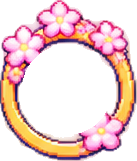
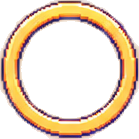
[Hình] Bớt hoa, khung mảnh: bảng, nút tròn, chiêu, bản đồ, ô chat, đăng nhập; đầu bảng và tab mỏng; chơi tiếp đúng tỉ lệ, sắc nét, chữ đậm; bỏ Chơi thử, Chơi lại từ đầu; mặt chân dung lấy đúng hình đang vẽ
Claude-Session: https://claude.ai/code/session_01BVnJmsGG4jWdJUy17v59Cp

diff --git a/style-ui-hoa-dao.css b/style-ui-hoa-dao.css
@@ -9,13 +9,18 @@ body #hud .bars .bar, body #hud .bars .bar::before, body #hud .bars .bar i, body
 body #loading .ld-box, #uk-ava i, body #btn-atk::after, body #btn-s0::after, body #btn-s1::after, body #btn-s2::after, body #btn-pill::after, body #btn-art::after, body #btn-dash::after { image-rendering: auto !important; }
 
 /* ---- bảng chức năng, túi đồ: khung mái ngói hoa đào, hai đèn lồng, lòng tím (thu 0,3) ---- */
-body #bag, body .panel { border-style: solid !important; border-color: transparent !important; border-width: 66px 18px 13px !important;
-  border-image: url("assets/art/ui-hd-bang.png") 220 60 44 fill / 66px 18px 13px / 0 stretch !important; background-color: transparent !important; }
+body #bag, body .panel { border-style: solid !important; border-color: transparent !important; border-width: 16px !important;
+  border-image: url("assets/art/ui-hd-bang2.png") 46 fill / 16px / 0 stretch !important; background-color: transparent !important; }   /* khung vàng mảnh góc hoa văn, không hoa (chủ dự án 04/11/2026 11:01) */
 body #bag > .bag-head, body .panel > .bag-head { min-height: 30px; align-items: center; }
-body .bag-head > b { border-width: 7px 16px !important; border-image: url("assets/art/ui-hd-ten.png") 18 40 fill / 7px 16px / 0 stretch !important; padding: 1px 6px 2px; font-size: 15px !important; }
+body .bag-head > b { border-width: 4px 10px !important; border-image: url("assets/art/ui-hd-ten.png") 18 40 fill / 4px 10px / 0 stretch !important; padding: 0 4px; font-size: 13px !important; line-height: 18px; }
+/* đầu bảng, tab mỏng (chủ dự án 04/11/2026 11:03: tên bảng, tab chiếm quá nhiều chỗ) */
+body #bag > .bag-head, body .panel > .bag-head { min-height: 0 !important; padding: 0 0 2px !important; margin: 0 !important; gap: 4px; }
+body .bag-head > .lantern, body .bag-head > img, body .bag-head > i.den { display: none; }
+body .bag-tabs, body .world-tabs { gap: 3px !important; margin: 2px 0 !important; }
 body .bag-head > button[id$="-close"], body .bag-head > .close-x, body .ib-panel .bag-head > button:last-child {
-  width: 30px !important; height: 28px !important; background-image: url("assets/art/ui-hd-i-dong.png") !important; }
-body .bag-tabs button, body .world-tabs button { border-width: 6px 10px !important; border-image: url("assets/art/ui-hd-tab.png") 14 22 fill / 6px 10px / 0 stretch !important; }
+  width: 24px !important; height: 22px !important; background-image: url("assets/art/ui-hd-i-dong.png") !important; }
+body .bag-tabs button, body .world-tabs button { border-width: 3px 7px !important; border-image: url("assets/art/ui-hd-tab.png") 14 22 fill / 3px 7px / 0 stretch !important;
+  padding: 1px 4px !important; font-size: 12px !important; min-height: 0 !important; height: auto !important; line-height: 16px !important; }
 body .bag-tabs button.on, body .world-tabs button.on { border-image-source: url("assets/art/ui-hd-tab-on.png") !important; }
 
 /* ---- cột mục bên trái: cuộn giấy (thu 0,5), ô tím / ô vàng đang chọn ---- */
@@ -41,12 +46,11 @@ body #hud .bars .bar.qi i { border-image-source: url("assets/art/ui-hd-bar-lam.p
 body #hud .bars .bar span { z-index: 2; line-height: 16px; }
 
 /* ---- nút tròn trên màn hình: vòng hoa đào lòng tím; vòng chiêu, Lướt, nút Đánh ---- */
-body #hud .hud-btns > button.tron { background-image: url("assets/art/ui-hd-vong-hoa.png") !important; }
+body #hud .hud-btns > button.tron { background-image: url("assets/art/ui-hd-vong-mong.png") !important; }   /* vòng vàng mảnh lòng tím, không hoa */
 body #hud .hud-btns > button.tron[data-tron2] { background: none !important; }
-body #btn-s0::after, body #btn-s1::after, body #btn-s2::after, body #btn-pill::after, body #btn-art::after { background-image: url("assets/art/ui-hd-ring.png") !important; }
+body #btn-s0::after, body #btn-s1::after, body #btn-s2::after, body #btn-pill::after, body #btn-art::after { background-image: url("assets/art/ui-hd-ring-vang.png") !important; }
 body #btn-dash::after { background-image: url("assets/art/ui-hd-ring-lam.png") !important; }
-body #btn-atk::after, body[data-le] #btn-atk::after { background-image: url("assets/art/ui-hd-atk.png") !important; }
-body #btn-atk b { opacity: 0; }
+/* nút Đánh: song kiếm không hoa (bộ GPT hai), chữ Đánh của game */
 body #btn-auto.auto-dock { border-width: 9px 14px !important; border-image: url("assets/art/ui-hd-tim-nho.png") 18 30 fill / 9px 14px / 0 stretch !important; }
 
 /* nút trên màn chưa gắn lớp .tron (lúc vừa vào game) thì giấu, không thoáng thấy bố cục nút chữ cũ (chủ dự án 04/11/2026 10:31) */
@@ -59,7 +63,7 @@ body #btn-auto.auto-dock, body #hud .hud-btns > button { box-shadow: none !impor
 #mini-map b { border: 6px solid transparent; border-width: 5px 12px; border-image: url("assets/art/ui-hd-ten.png") 18 40 fill / 5px 12px / 0 stretch; background: none; bottom: -16px; padding: 0 2px; }
 body #goal { border: solid transparent !important; border-width: 7px 16px !important; border-image: url("assets/art/ui-hd-viec.png") 16 40 fill / 7px 16px / 0 stretch !important;
   background: none !important; border-radius: 0 !important; box-shadow: none !important; padding: 2px 4px !important; color: #fff1c8; top: calc(env(safe-area-inset-top) + 140px) !important; }
-body .chat-dock { border: solid transparent !important; border-width: 10px 16px !important; border-image: url("assets/art/ui-hd-chat.png") 24 40 fill / 10px 16px / 0 stretch !important; background: none !important; border-radius: 0 !important; padding: 0 2px !important; }
+body .chat-dock { border: solid transparent !important; border-width: 10px 16px !important; border-image: url("assets/art/ui-hd-chat2.png") 16 24 fill / 6px 9px / 0 stretch !important; border-width: 6px 9px !important; background: none !important; border-radius: 0 !important; padding: 0 2px !important; }
 body .chat-dock .cd-input { border-width: 5px 8px !important; border-right-width: 8px !important; border-image: url("assets/art/ui-hd-nhap.png") 12 16 fill / 5px 8px / 0 stretch !important; }
 #hop-thu { border-width: 14px 12px !important; border-image: url("assets/art/ui-hd-hop.png") 36 30 fill / 14px 12px / 0 stretch !important; }
 .uk-tog#uk-gon { border: none !important; border-image: none !important; background: url("assets/art/ui-hd-i-lui.png") center / contain no-repeat !important; }
@@ -84,11 +88,23 @@ body #bag [data-o]:not([data-o="pham"]) .ico { border-width: 5px; border-image: 
 /* ---- màn đăng nhập, chơi tiếp, màn tải ---- */
 /* đăng nhập: khung hoa đào đèn đá (dn-khung); chơi tiếp: khung chùa mây đèn lồng (dn-tiep) — ảnh 5, chủ dự án 04/11/2026 10:46.
    Khung lòng trống: ảnh phủ cả hộp, lớp tím mờ lót bên trong cho chữ dễ đọc */
-body #menu #login-form, body #menu #logged { border: none !important; border-image: none !important; min-width: 270px;
-  background: url("assets/art/ui-hd-dn-khung.png") center / 100% 100% no-repeat, linear-gradient(rgba(34, 20, 58, .86), rgba(34, 20, 58, .86)) center / calc(100% - 26px) calc(100% - 60px) no-repeat !important;
-  padding: 62px 34px 136px !important; }
-body #menu #logged { background-image: url("assets/art/ui-hd-dn-tiep.png"), linear-gradient(rgba(34, 20, 58, .86), rgba(34, 20, 58, .86)) !important;
-  background-size: 100% 100%, calc(100% - 64px) calc(100% - 190px) !important; padding: 136px 52px 92px !important; }
+body #menu #login-form, body #menu #logged { min-width: 270px;
+  border: 16px solid transparent !important; border-image: url("assets/art/ui-hd-khung.png") 46 fill / 16px / 0 stretch !important; background: none !important;
+  padding: 10px 14px !important; }   /* khung vàng mảnh, không hoa, 9 mảnh (không kéo dãn hình) */
+/* chơi tiếp (chủ dự án 04/11/2026 10:58: nhà mờ, mây kéo béo): khung giữ đúng tỉ lệ ảnh (không kéo), phóng kiểu điểm ảnh cho sắc;
+   tên đạo hữu dưới mái chùa, nút Chơi tiếp, ba liên kết một hàng nhỏ để vừa lòng khung */
+body #menu #logged { border: none !important; border-image: none !important; background-color: transparent !important; width: min(94vw, 380px); max-width: none; aspect-ratio: 405 / 283; box-sizing: border-box; min-width: 0 !important; display: flex; flex-flow: row wrap; align-content: center; justify-content: center; gap: 4px 0;
+  background-image: url("assets/art/ui-hd-dn-tiep.png"), linear-gradient(rgba(34, 20, 58, .9), rgba(34, 20, 58, .9)) !important;
+  background-size: 100% 100%, 64% 46% !important; background-position: center, 50% 64% !important; padding: 30% 17% 15% !important; image-rendering: pixelated !important; }
+body #menu #logged .hello { flex: 0 0 100%; text-align: center; margin: 0; font-size: 15px; color: #ffe6a0; text-shadow: 1px 0 #1a0a20, -1px 0 #1a0a20, 0 1px #1a0a20, 0 -1px #1a0a20, 0 0 6px #000; }
+body #menu #logged .hello b { color: #fff; }
+body #menu #logged #play-buttons { flex: 0 0 100%; margin: 0 0 2px; }
+body #menu #logged #play-buttons .menu-btn { width: 100%; min-width: 0; margin: 0; }
+body #menu #logged .link-btn { display: inline; margin: 0 3px; padding: 0; font-size: 10.5px; text-shadow: 1px 1px 0 #000; }
+body #menu #logged > .link-btn { flex: none; }
+body #menu [hidden] { display: none !important; }
+/* chữ nút đậm hơn (chủ dự án: chữ Chơi tiếp quá mỏng) */
+body #menu .menu-btn { font-size: 17px !important; text-shadow: .6px 0 currentColor, -.6px 0 currentColor, 0 1px 0 rgba(255, 236, 190, .55) !important; }
 body #menu .menu-btn, body[data-le] #menu .menu-btn { border-width: 10px 18px !important; border-image: url("assets/art/ui-hd-dn-vang.png") 22 40 fill / 10px 18px / 0 stretch !important; color: #3a1206 !important; }
 body #menu .menu-btn.alt, body[data-le] #menu .menu-btn.alt { border-width: 10px 18px !important; border-image: url("assets/art/ui-hd-dn-tim.png") 22 40 fill / 10px 18px / 0 stretch !important; color: #fff1c8 !important; }
 body #menu input { border: solid transparent !important; border-width: 8px 10px !important; border-image: url("assets/art/ui-hd-dn-o.png") 16 20 fill / 8px 10px / 0 stretch !important;

diff --git a/src/ui/hud-ava.js b/src/ui/hud-ava.js
@@ -2,7 +2,7 @@
 // cắt phần đầu vai), viền theo Linh căn (mộc: hoa sen, hỏa: lửa, thủy: sóng, kim / thổ: vàng hoa), ô cấp ghi tầng tu tổng
 // (cảnh giới × 9 + tầng). Chạm chân dung mở bảng nhân vật như chạm tên cảnh giới. Kiểu ở style-ui-kit2.css.
 import { spriteImage } from '../render/sprites.js';
-import { outfitSprite } from '../render/draw-hero.js';
+import { heroLook } from '../render/draw-hero.js';
 import { every } from '../core/ticker.js';   // trang ẩn thì bỏ lượt
 
 // Khung bộ hoa đào (chủ dự án 04/11/2026 10:19, tools/art/ui_hoa_dao.py): mộc hoa đào, kim vàng kim cương, thủy sóng, hỏa lửa, thổ mây vàng.
@@ -22,7 +22,7 @@ export function createHudAva(game) {
     if (!bars || !s) return;
     if (box.parentElement !== bars) bars.prepend(box);
     box.hidden = false;
-    const H = game.data.heroes, look = H.list[s.look] ? s.look : H.default, id = outfitSprite(game, look), spr = game.data.art.sprites[id];
+    const id = heroLook(game).sprite, spr = game.data.art.sprites[id];   // đúng hình đang vẽ ngoài màn (bộ thời trang chưa có hình chibi thì hình gốc; trước lấy tên chibi không có hình nên mặt trống)
     const fk = ELS.includes(s.element) ? s.element : 'moc', L = `Lv.${(s.realm || 0) * 9 + (s.layer || 1)}`, im0 = spr && spriteImage(spr), k = [id, fk, L, !!(im0 && im0.complete && im0.naturalWidth)].join('|');
     if (k === key) return;
     key = k; lv.textContent = L;
@@ -33,10 +33,17 @@ export function createHudAva(game) {
     const im = spr && spriteImage(spr), c = cv.getContext('2d');
     c.clearRect(0, 0, 40, 40); c.fillStyle = '#2a1838'; c.fillRect(0, 0, 40, 40);
     if (!im) return;
-    // khung đứng (khung 0), cắt vuông quanh đầu: bề ngang 30 điểm quanh tâm hình, từ đỉnh đầu xuống
-    const top = spr.anchor[1] - 42, cx = spr.anchor[0], S = 30;
+    // khung đứng (khung 0): tìm đỉnh đầu theo điểm không trong suốt, cắt vuông quanh đầu (cỡ theo bề ngang hình nhân vật)
+    const t = document.createElement('canvas'); t.width = spr.w; t.height = spr.h;
+    const tc = t.getContext('2d'); tc.drawImage(im, 0, 0, spr.w, spr.h, 0, 0, spr.w, spr.h);
+    const a = tc.getImageData(0, 0, spr.w, spr.h).data;
+    let y0 = -1, x0 = spr.w, x1 = 0;
+    for (let y = 0; y < spr.h && y0 < 0; y++) for (let x = 0; x < spr.w; x++) if (a[(y * spr.w + x) * 4 + 3] > 40) { y0 = y; break; }
+    for (let y = Math.max(0, y0); y < spr.h; y++) for (let x = 0; x < spr.w; x++) if (a[(y * spr.w + x) * 4 + 3] > 40) { if (x < x0) x0 = x; if (x > x1) x1 = x; }
+    if (y0 < 0) return;
+    const S = Math.max(12, Math.round((x1 - x0 + 1) * 0.8)), cx = (x0 + x1 + 1) / 2;
     c.imageSmoothingEnabled = false;
-    c.drawImage(im, cx - S / 2, Math.max(0, top), S, S, 0, 2, 40, 40);
+    c.drawImage(im, Math.round(cx - S / 2), Math.max(0, y0 - 2), S, S, 0, 2, 40, 40);
   }
   paint(); every(paint, 3000);
 }

diff --git a/src/ui/login.js b/src/ui/login.js
@@ -24,7 +24,11 @@ export function createLogin(onPlay0) {
     if (session) $('logged-name').textContent = auth.displayName(session);
     const has = !!loadSave(session ? session.user.id : 'guest');
     $('menu-continue').hidden = !has;
-    $('menu-new').textContent = has ? 'Chơi lại từ đầu' : 'Bắt đầu';
+    // chủ dự án 04/11/2026 10:58: bỏ "Chơi lại từ đầu" (đã có bản lưu thì chỉ còn Chơi tiếp) và bỏ "Chơi thử không cần tài khoản";
+    // nút chơi thử chỉ còn cho máy kiểm tra tự động (địa chỉ có ?thu=1: tools/playtest.mjs, choi-doc.mjs, cay-thu.mjs)
+    $('menu-new').hidden = has;
+    $('menu-new').textContent = 'Bắt đầu';
+    $('btn-guest').hidden = !new URLSearchParams(location.search).has('thu');
     $('play-buttons').hidden = !session;
   }
 

diff --git a/tools/art/ui_hoa_dao.py b/tools/art/ui_hoa_dao.py
@@ -76,13 +76,14 @@ B3 = {
     'bar-do': (261, 734, 471, 773), 'bar-lam': (261, 784, 472, 823), 'bar-rong': (260, 835, 473, 873),
     'thong-bao': (397, 900, 997, 1008),
     'i-lui': (17, 458, 80, 517), 'i-toi': (17, 527, 80, 585), 'i-dong': (18, 595, 80, 652), 'i-ok': (17, 661, 80, 720),
+    'vong-mong': (1307, 727, 1390, 803), 'bang2': (409, 51, 742, 344),
     'i-cai-dat': (23, 729, 78, 783), 'i-hoi': (24, 790, 77, 841), 'i-than': (24, 848, 77, 899), 'i-tin': (24, 907, 77, 961),
 }
 B4 = {
     'khung': (15, 43, 362, 435), 'mai': (382, 12, 778, 290), 'trang2': (794, 23, 1152, 288), 'hop': (384, 289, 707, 437),
     'may': (727, 316, 1128, 431), 'o-nhap': (1151, 380, 1415, 434), 'vang': (15, 462, 360, 534), 'tim': (381, 461, 691, 531),
     'vang-nho': (912, 453, 1127, 512), 'tim-nho': (712, 453, 891, 527), 'tab': (913, 591, 1056, 634), 'tab-on': (1073, 589, 1215, 631),
-    'o': (384, 544, 692, 610), 'chon': (15, 638, 347, 725), 'chat': (243, 745, 602, 852), 'nhap': (1151, 515, 1415, 568),
+    'chat2': (624, 764, 1048, 845), 'o': (384, 544, 692, 610), 'chon': (15, 638, 347, 725), 'chat': (243, 745, 602, 852), 'nhap': (1151, 515, 1415, 568),
 }
 
 B5 = {   # ảnh 5 (chủ dự án 04/11/2026 10:46): nền khung đăng nhập, chơi tiếp, nút
@@ -111,7 +112,8 @@ def build(save):
         MANIFEST['ui.hd-ava-' + k]['hole'] = holes[k]   # [tâm x / rộng, tâm y / cao, bán kính / rộng, cao / rộng] cho src/ui/hud-ava.js
     put('ui.hd-vong-hoa', _cut(a2, B2['vong-hoa']), 'vòng hoa đào lòng tím (nút tròn)')
     put('ui.hd-ring', _hole(_cut(a2, B2['ring']), 1.0)[0], 'vòng chiêu khoét lòng')
-    vb, cx, cy, r = _hole(_cut(a3, (493, 732, 630, 893)), 1.0)
+    put('ui.hd-ring-vang', _hole(_cut(a3, (642, 755, 781, 894)), 1.0)[0], 'vòng vàng trơn khoét lòng (chiêu; chủ dự án 11:01: bớt hoa, khung mỏng)')
+    vb, cx, cy, r = _hole(_cut(a3, (642, 755, 781, 894)), 1.0)   # bản đồ: vòng vàng trơn mỏng (chủ dự án 04/11/2026 11:01)
     put('ui.hd-vong-ban-do', vb, 'vòng hoa đào lòng trống (khung bản đồ tròn)')
     MANIFEST['ui.hd-vong-ban-do']['hole'] = [round(float(cx) / vb.shape[1], 3), round(float(cy) / vb.shape[0], 3), round(float(r) / vb.shape[1], 3), round(vb.shape[0] / vb.shape[1], 3)]
     put('ui.hd-ring-lam', _hole(_cut(a2, B2['ring-lam']), 1.0)[0], 'vòng Lướt đá lam khoét lòng')
